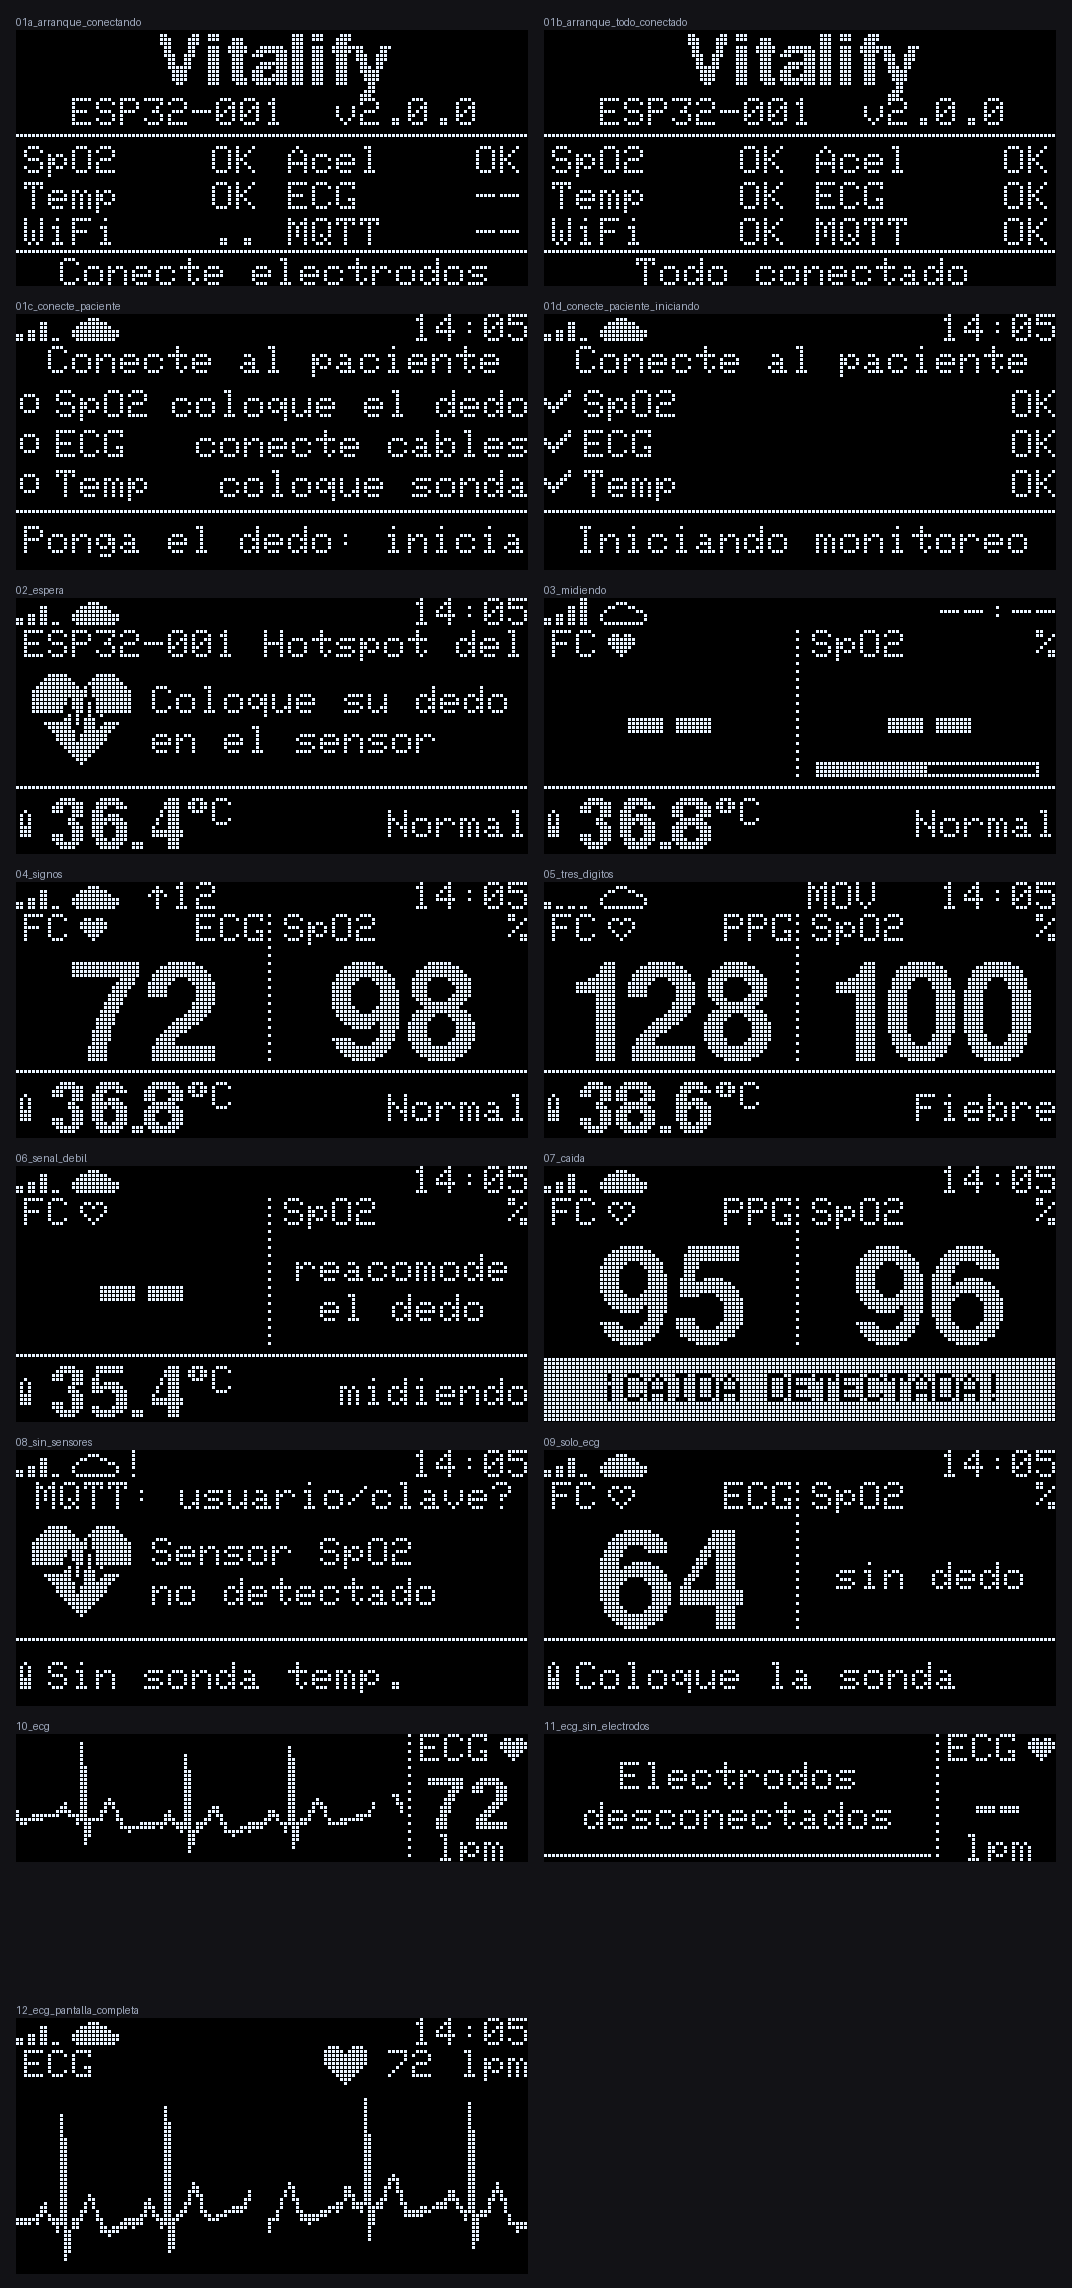
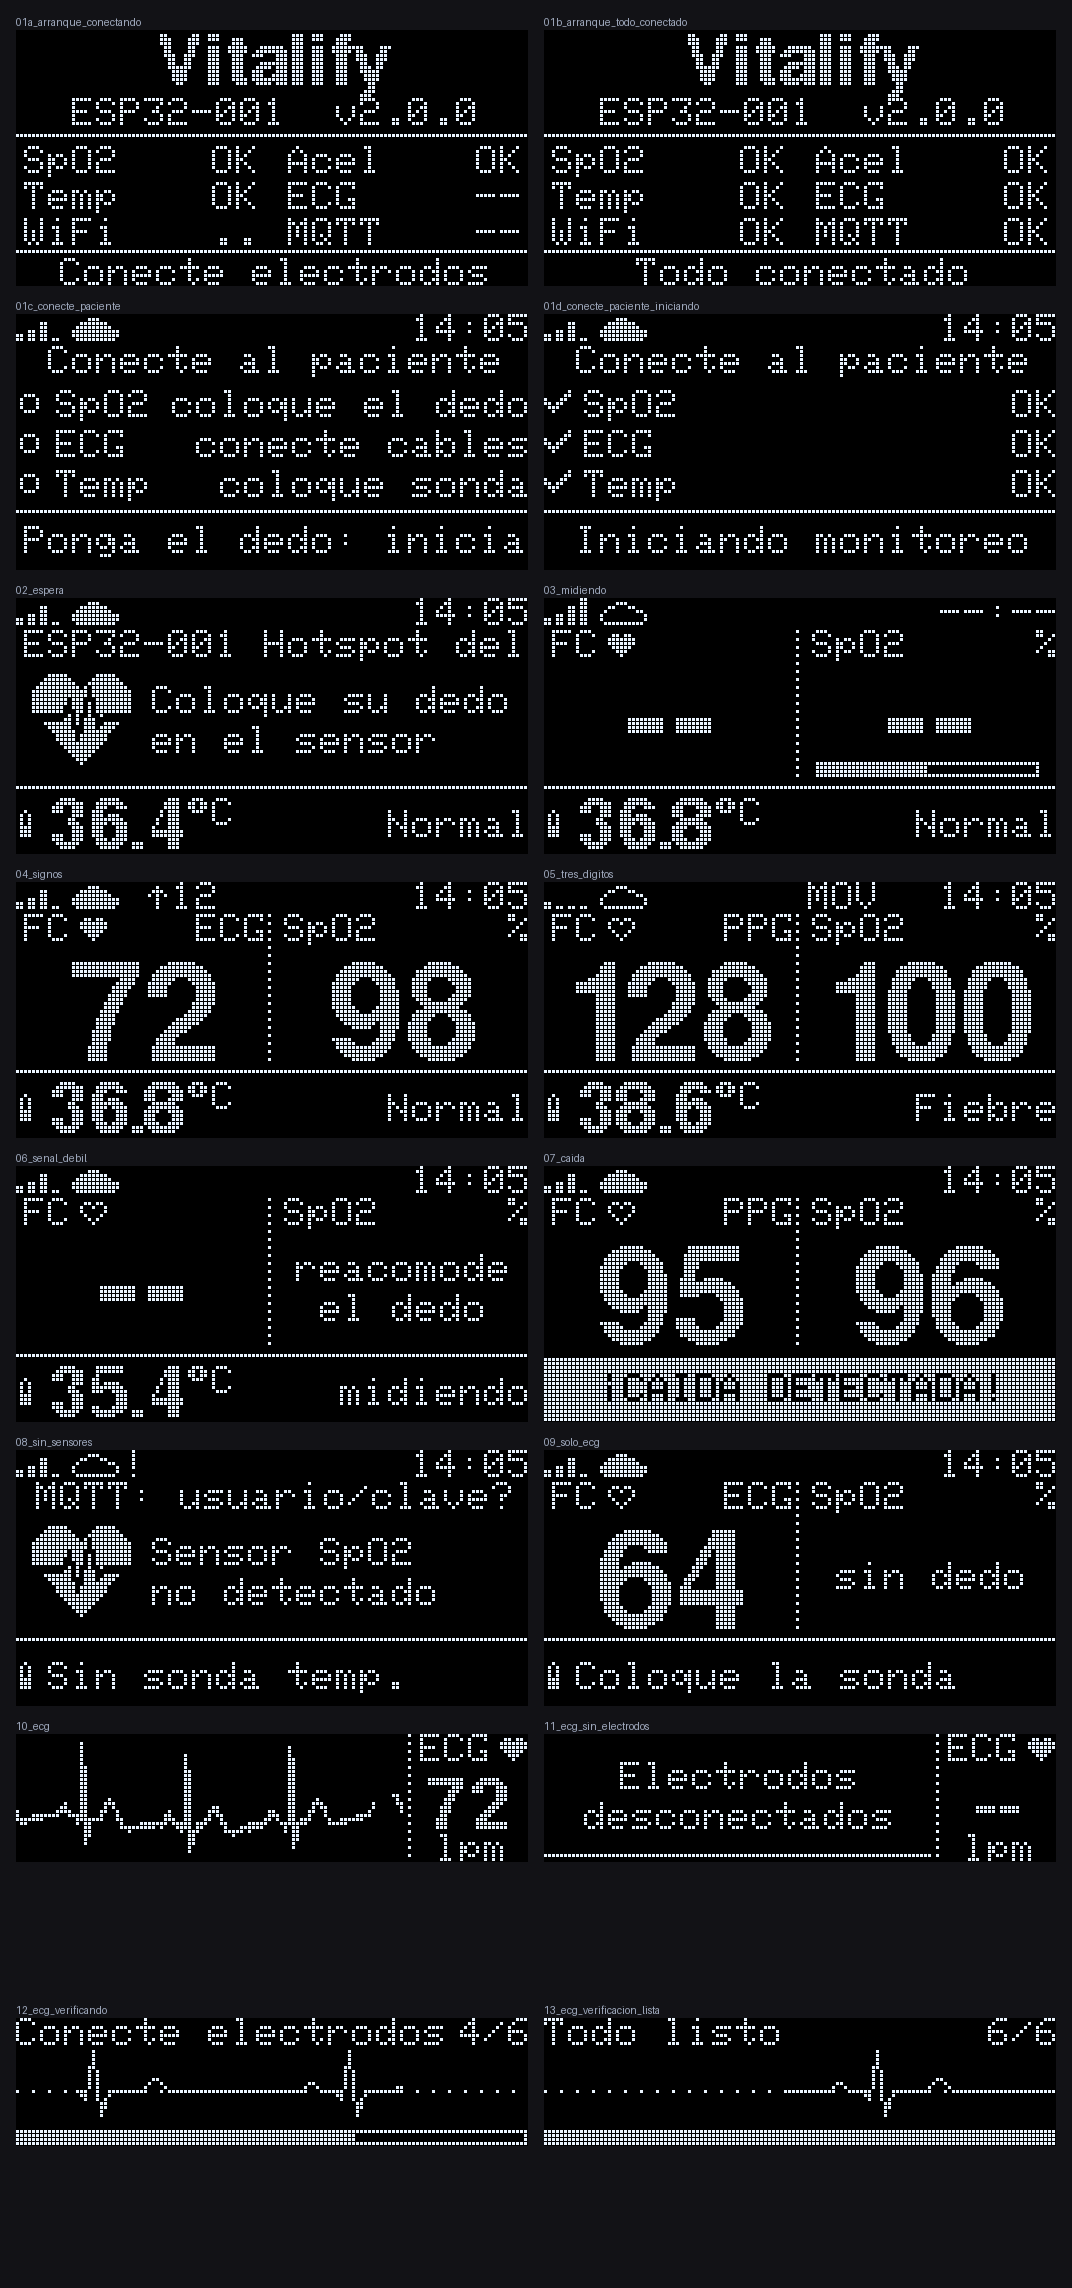
docs: documenta las dos pantallas, las conexiones del DevKit y el LED verde
- Tabla de qué muestra cada OLED y el LED en el arranque, la espera del paciente
  y el monitoreo, con las vistas de pantallas_oled.png (regenerada).
- Conexiones del ESP32 DevKit: OLED del ECG en D13/D14, LED verde en D27 con su
  resistencia, y por qué no usar D12 ni D2.
- Problemas frecuentes: OLED del ECG que no responde, LED apagado y arranque
  bloqueado por GPIO12 (boot:0x33).

diff --git a/README.md b/README.md
@@ -87,6 +87,13 @@ arduino-cli compile --fqbn esp32:esp32:esp32s3:CDCOnBoot=cdc --libraries librari
 arduino-cli upload  --fqbn esp32:esp32:esp32s3:CDCOnBoot=cdc -p /dev/cu.usbmodem* tesis
 ```
 
+Con un **ESP32 DevKit** (ESP32 clásico, USB por CH340), la placa es *ESP32 Dev Module* y `config.h` toma sus pines solo:
+
+```bash
+arduino-cli compile --fqbn esp32:esp32:esp32 --libraries libraries tesis
+arduino-cli upload  --fqbn esp32:esp32:esp32:UploadSpeed=460800 -p /dev/cu.usbserial-* tesis
+```
+
 ### 4. Verificar
 
 Monitor serie a 115200 baudios:
@@ -107,13 +114,31 @@ La tecla `p` en el monitor activa el trazado del ECG para el Serial Plotter. En 
 | Módulo | Pines | Notas |
 |---|---|---|
 | MAX30102, ADXL345, OLED 128x64 | SDA → GPIO5, SCL → GPIO6 | Bus I2C 0 a 400 kHz (0x57, 0x53, 0x3C) |
-| OLED 128x32 (ECG, opcional) | SDA → GPIO7, SCL → GPIO8 | Bus I2C 1 (0x3C). Sin ella, el ECG se muestra en la OLED principal |
+| OLED 128x32 (ECG) | SDA → GPIO7, SCL → GPIO8 | Bus I2C 1 (0x3C) |
 | DS18B20 | Datos → GPIO4 | Resistencia de 4,7 kΩ entre datos y 3V3 |
 | AD8232 | OUTPUT → GPIO1, LO− → GPIO2, LO+ → GPIO3 | SDN al aire o a 3V3. **SDN a GND apaga el AD8232** |
+
+### ESP32 DevKit (ESP32 clásico)
+
+| Módulo | Pines | Notas |
+|---|---|---|
+| MAX30102, ADXL345, OLED 128x64 | SDA → GPIO26, SCL → GPIO33 | Bus I2C 0 a 400 kHz (0x57, 0x53, 0x3C). Los GPIO 6 a 11 son de la flash: no se usan |
+| OLED 128x32 (ECG) | SDA → GPIO13 (D13), SCL → GPIO14 (D14) | Bus I2C 1. También es 0x3C: en el bus 0 chocaría con la OLED principal. **No usar D12** (está entre D14 y D13): GPIO12 en alto al reiniciar pone la flash a 1,8 V y el ESP32 no arranca. **Ni D2**: el LED azul de la placa mantiene la línea en bajo y la OLED no responde |
+| DS18B20 | Datos → GPIO25 | Resistencia de 4,7 kΩ entre datos y 3V3 |
+| AD8232 | OUTPUT → GPIO34, LO− → GPIO35, LO+ → GPIO32 | GPIO34 es ADC1 (funciona con el Wi-Fi encendido). 34 y 35 son solo entrada y no tienen pull-up interna: con una de 10 kΩ de GPIO35 a 3V3, un cable de LO− suelto se ve como "electrodos desconectados" en vez de ruido |
+| LED verde | GPIO27 (D27) → resistencia de 220–330 Ω → ánodo; cátodo → GND | Encendido: todo funciona (ver *Pantallas*) |
 
 Todos los módulos a 3V3 y GND del mismo riel. El Wi-Fi transmite a 11 dBm (`WIFI_POTENCIA_TX`) para no provocar caídas de tensión en ese riel.
 
 ## Pantallas
+
+Cada OLED tiene su función: la principal muestra el chequeo y los signos, y la delgada, la verificación y el ECG. Los números entre paréntesis son las vistas de `pantallas_oled.png`.
+
+| Momento | OLED principal (128x64) | OLED del ECG (128x32) | LED verde |
+|---|---|---|---|
+| Arranque | Chequeo de SpO2, Acel, Temp, ECG, Wi-Fi y MQTT (`01a`, `01b`) | Verificación animada: qué falta, `n/6`, latido y barra de progreso (`12`, `13`) | Se enciende cuando todo responde |
+| Espera del paciente | "Conecte al paciente" con ✓, ○ o ✗ por sensor (`01c`, `01d`) | ECG; sin electrodos, "Electrodos desconectados" (`11`) | Encendido si el equipo está bien |
+| Monitoreo | Signos: FC, SpO2, temperatura y alerta de caída (`02` a `09`) | ECG en barrido con la FC del ECG (`10`) | Encendido si el equipo está bien |
 
 **Arranque.** La pantalla de chequeo muestra SpO2, Acel, Temp, ECG, Wi-Fi y MQTT. En el ECG: `NO` = el módulo AD8232 no responde, `--` = responde pero los electrodos no están conectados, `OK` = electrodos conectados (el AD8232 solo los detecta sobre la piel). **No sigue mientras algún sensor diga NO o el ECG diga `--`** (se reintenta solo: puedes conectarlos en caliente); con todo OK espera la conexión al broker hasta 25 s y muestra "Todo conectado". El botón **BOOT** de la placa sigue igual aunque falte algo.
 
@@ -134,11 +159,17 @@ Todos los módulos a 3V3 y GND del mismo riel. El Wi-Fi transmite a 11 dBm (`WIF
 
 Sin dedo ni electrodos muestra el código del dispositivo, la red y la indicación de colocar el dedo.
 
-**ECG.** Trazo en barrido como en un monitor de cabecera (escala automática) y la FC calculada del ECG.
-- **Con una sola OLED:** la pantalla alterna entre los signos (10 s) y el ECG a pantalla completa (6 s, ~4 s de trazo). Solo cambia al ECG si los electrodos están puestos y nunca tapa una alerta de caída. Los tiempos están en `config.h` (`PANTALLA_SIGNOS_MS`, `PANTALLA_ECG_MS`).
-- **Con la OLED 128x32 conectada:** el ECG queda fijo en ella (~3 s de trazo) y la principal muestra solo los signos.
+**OLED del ECG (128x32).** Durante el arranque muestra su propia verificación: arriba, lo que falta ahora (`Conecte electrodos`, `Buscando Wi-Fi`, `Conectando MQTT`…) y cuántos de los seis chequeos están listos; en medio, un latido animado que recorre la pantalla, y abajo, una barra de progreso. Al terminar dice `Todo listo 6/6` y pasa al ECG: trazo en barrido como en un monitor de cabecera (escala automática, ~3 s de trazo) y, a la derecha, la FC calculada del ECG con un corazón que late con cada QRS. Sin electrodos parpadea "Electrodos desconectados". La OLED principal nunca muestra el ECG.
 
 `tesis/pruebas/vista_previa.sh` regenera `pantallas_oled.png` con el código real del firmware.
+
+**LED verde (GPIO27 en el DevKit).** Encendido fijo = todo funciona:
+
+- responden el MAX30102, el ADXL345, el DS18B20, el módulo AD8232 y las dos OLED;
+- hay Wi-Fi y hora NTP;
+- el broker MQTT está conectado, así que las lecturas llegan al backend.
+
+Apagado = algo falla. Cada vez que cambia, el monitor serie dice qué falta (`LED verde apagado: falta OLED-ECG MQTT`). El LED no depende del paciente: sin dedo ni electrodos el equipo igual está bien y el LED sigue encendido.
 
 ## Algoritmos
 
@@ -182,10 +213,13 @@ El backend ya lee este broker (`Backend/src/Vitalify.Api/Entrada/Mqtt/ReceptorMq
 | "Electrodos desconectados" | LO+ o LO− en alto | Revisar electrodos y que SDN no esté a GND |
 | "Sin sonda temp." | DS18B20 sin respuesta | Revisar la resistencia de 4,7 kΩ y GPIO4 |
 | "Coloque la sonda" | La sonda está al aire o en la mano (< 32 °C) | Colocarla en la axila y esperar a que deje de decir `midiendo` |
+| OLED del ECG apagada | No responde en el bus 1 (al arrancar, el monitor serie muestra `I2C bus 1 (SDA=13, SCL=14): ninguno`; si una línea está en bajo, antes dice cuál: `I2C bus 1: SCL en bajo en reposo`) | Revisar SDA/SCL de la OLED 128x32 (DevKit: D13 y D14) y su alimentación. Se reconecta sola en 5 s |
+| Ambas OLED apagadas y el monitor serie repite `boot:0x33` e `invalid magic number` | GPIO12 está en alto al reiniciar (un cable en D12) y la flash queda a 1,8 V | Sacar ese cable de D12 (la OLED del ECG va en D13 y D14) y reiniciar con EN |
+| LED verde apagado | Algo de la lista del LED falla | El monitor serie dice qué falta (`LED verde apagado: falta ...`). Si no dice nada y el LED no prende, revisar la polaridad y la resistencia |
 
 ## Limitaciones
 
 - La SpO2 usa la curva genérica de Maxim. Para la tesis conviene calibrar `SPO2_A/B/C` contra un oxímetro de referencia. No es un dispositivo médico certificado.
 - El DS18B20 mide la superficie donde está apoyado: en la piel marca menos que la temperatura central.
 - El búfer está en RAM: si el ESP32 se reinicia, se pierde lo que no se había enviado.
-- El firmware ocupa el 86 % de la partición de la app. Si se agregan funciones, elegir el esquema de particiones *Huge APP*.
+- El firmware ocupa el 88 % de la partición de la app en el DevKit (86 % en el S3). Si se agregan funciones, elegir el esquema de particiones *Huge APP*.
